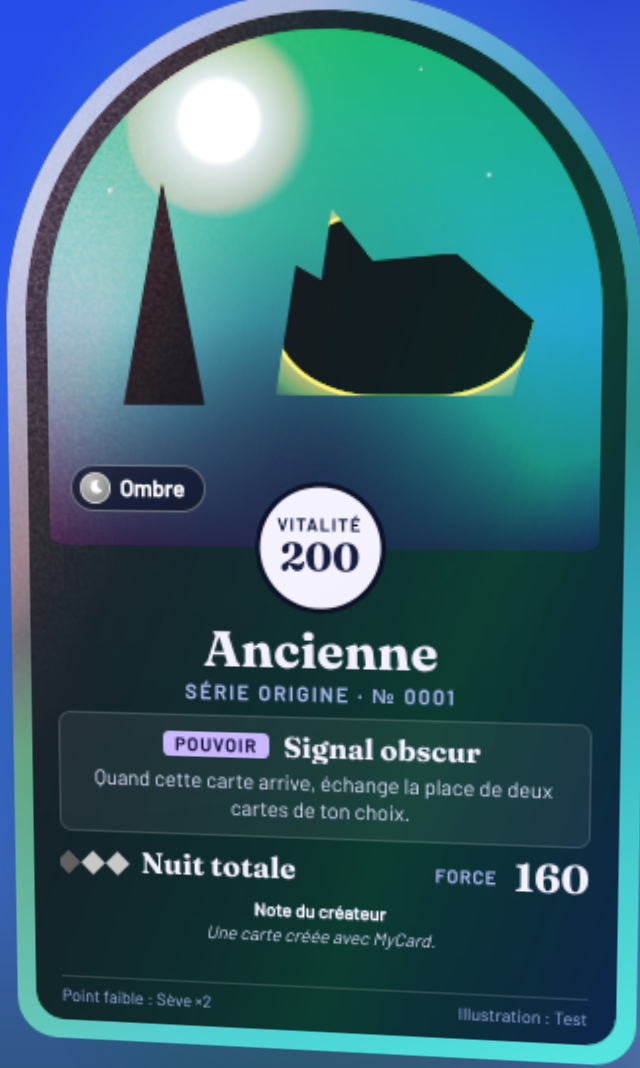
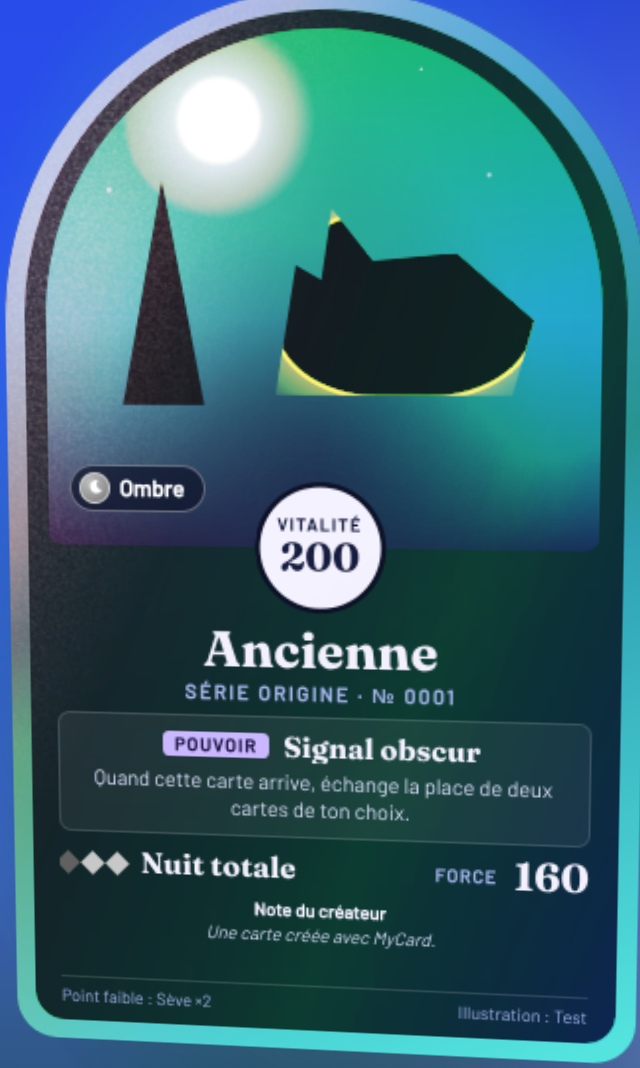
Personnalisation : la face avant ne s'affiche plus par-dessus le dos de la carte
Depuis que la forme est portée par l'enveloppe intérieure, la carte ne
masquait plus sa 3D : l'enveloppe restait visible quand la carte était
retournée (intro de la personnalisation, retournement). La carte reste à
plat à l'intérieur et l'enveloppe cache sa face arrière.

Claude-Session: https://claude.ai/code/session_0143ULWxCa55ULCk63e98KAX

diff --git a/index.html b/index.html
@@ -169,8 +169,8 @@ body{margin:0;min-height:100vh;box-sizing:border-box;padding:24px 16px;backgroun
    Les couleurs viennent du cadre choisi (--cfr, --cfp…) ; la police des titres de --tf. Unités : cqw = 1 % de la largeur. */
 /* La carte inclinée en 3D ne découpe rien elle-même (Safari ne découpe pas toujours les calques animés d'un élément 3D) :
    c'est l'enveloppe .cin qui porte la forme, et chaque calque d'effet la reprend aussi. */
-.card[data-shape]{background:none;border-radius:0;overflow:visible}
-.cin{position:absolute;inset:0;overflow:hidden;background:var(--cfr);isolation:isolate;will-change:transform}
+.card[data-shape]{background:none;border-radius:0;overflow:visible;transform-style:flat}   /* rien en 3D à l'intérieur : la face avant se cache bien quand la carte est retournée */
+.cin{position:absolute;inset:0;overflow:hidden;background:var(--cfr);isolation:isolate;will-change:transform;backface-visibility:hidden;-webkit-backface-visibility:hidden}
 .cin>*{position:absolute}
 .card[data-shape=cut] :is(.cin,.holo,.sparkle,.glare,.revwrap,.fxa,.fxg){clip-path:polygon(8% 0,92% 0,100% 4.8%,100% 95.2%,92% 100%,8% 100%,0 95.2%,0 4.8%)}
 .card[data-shape=arch] :is(.cin,.holo,.sparkle,.glare,.revwrap,.fxa,.fxg){border-radius:50% 50% 6.5% 6.5% / 30% 30% 3.9% 3.9%;overflow:hidden}
